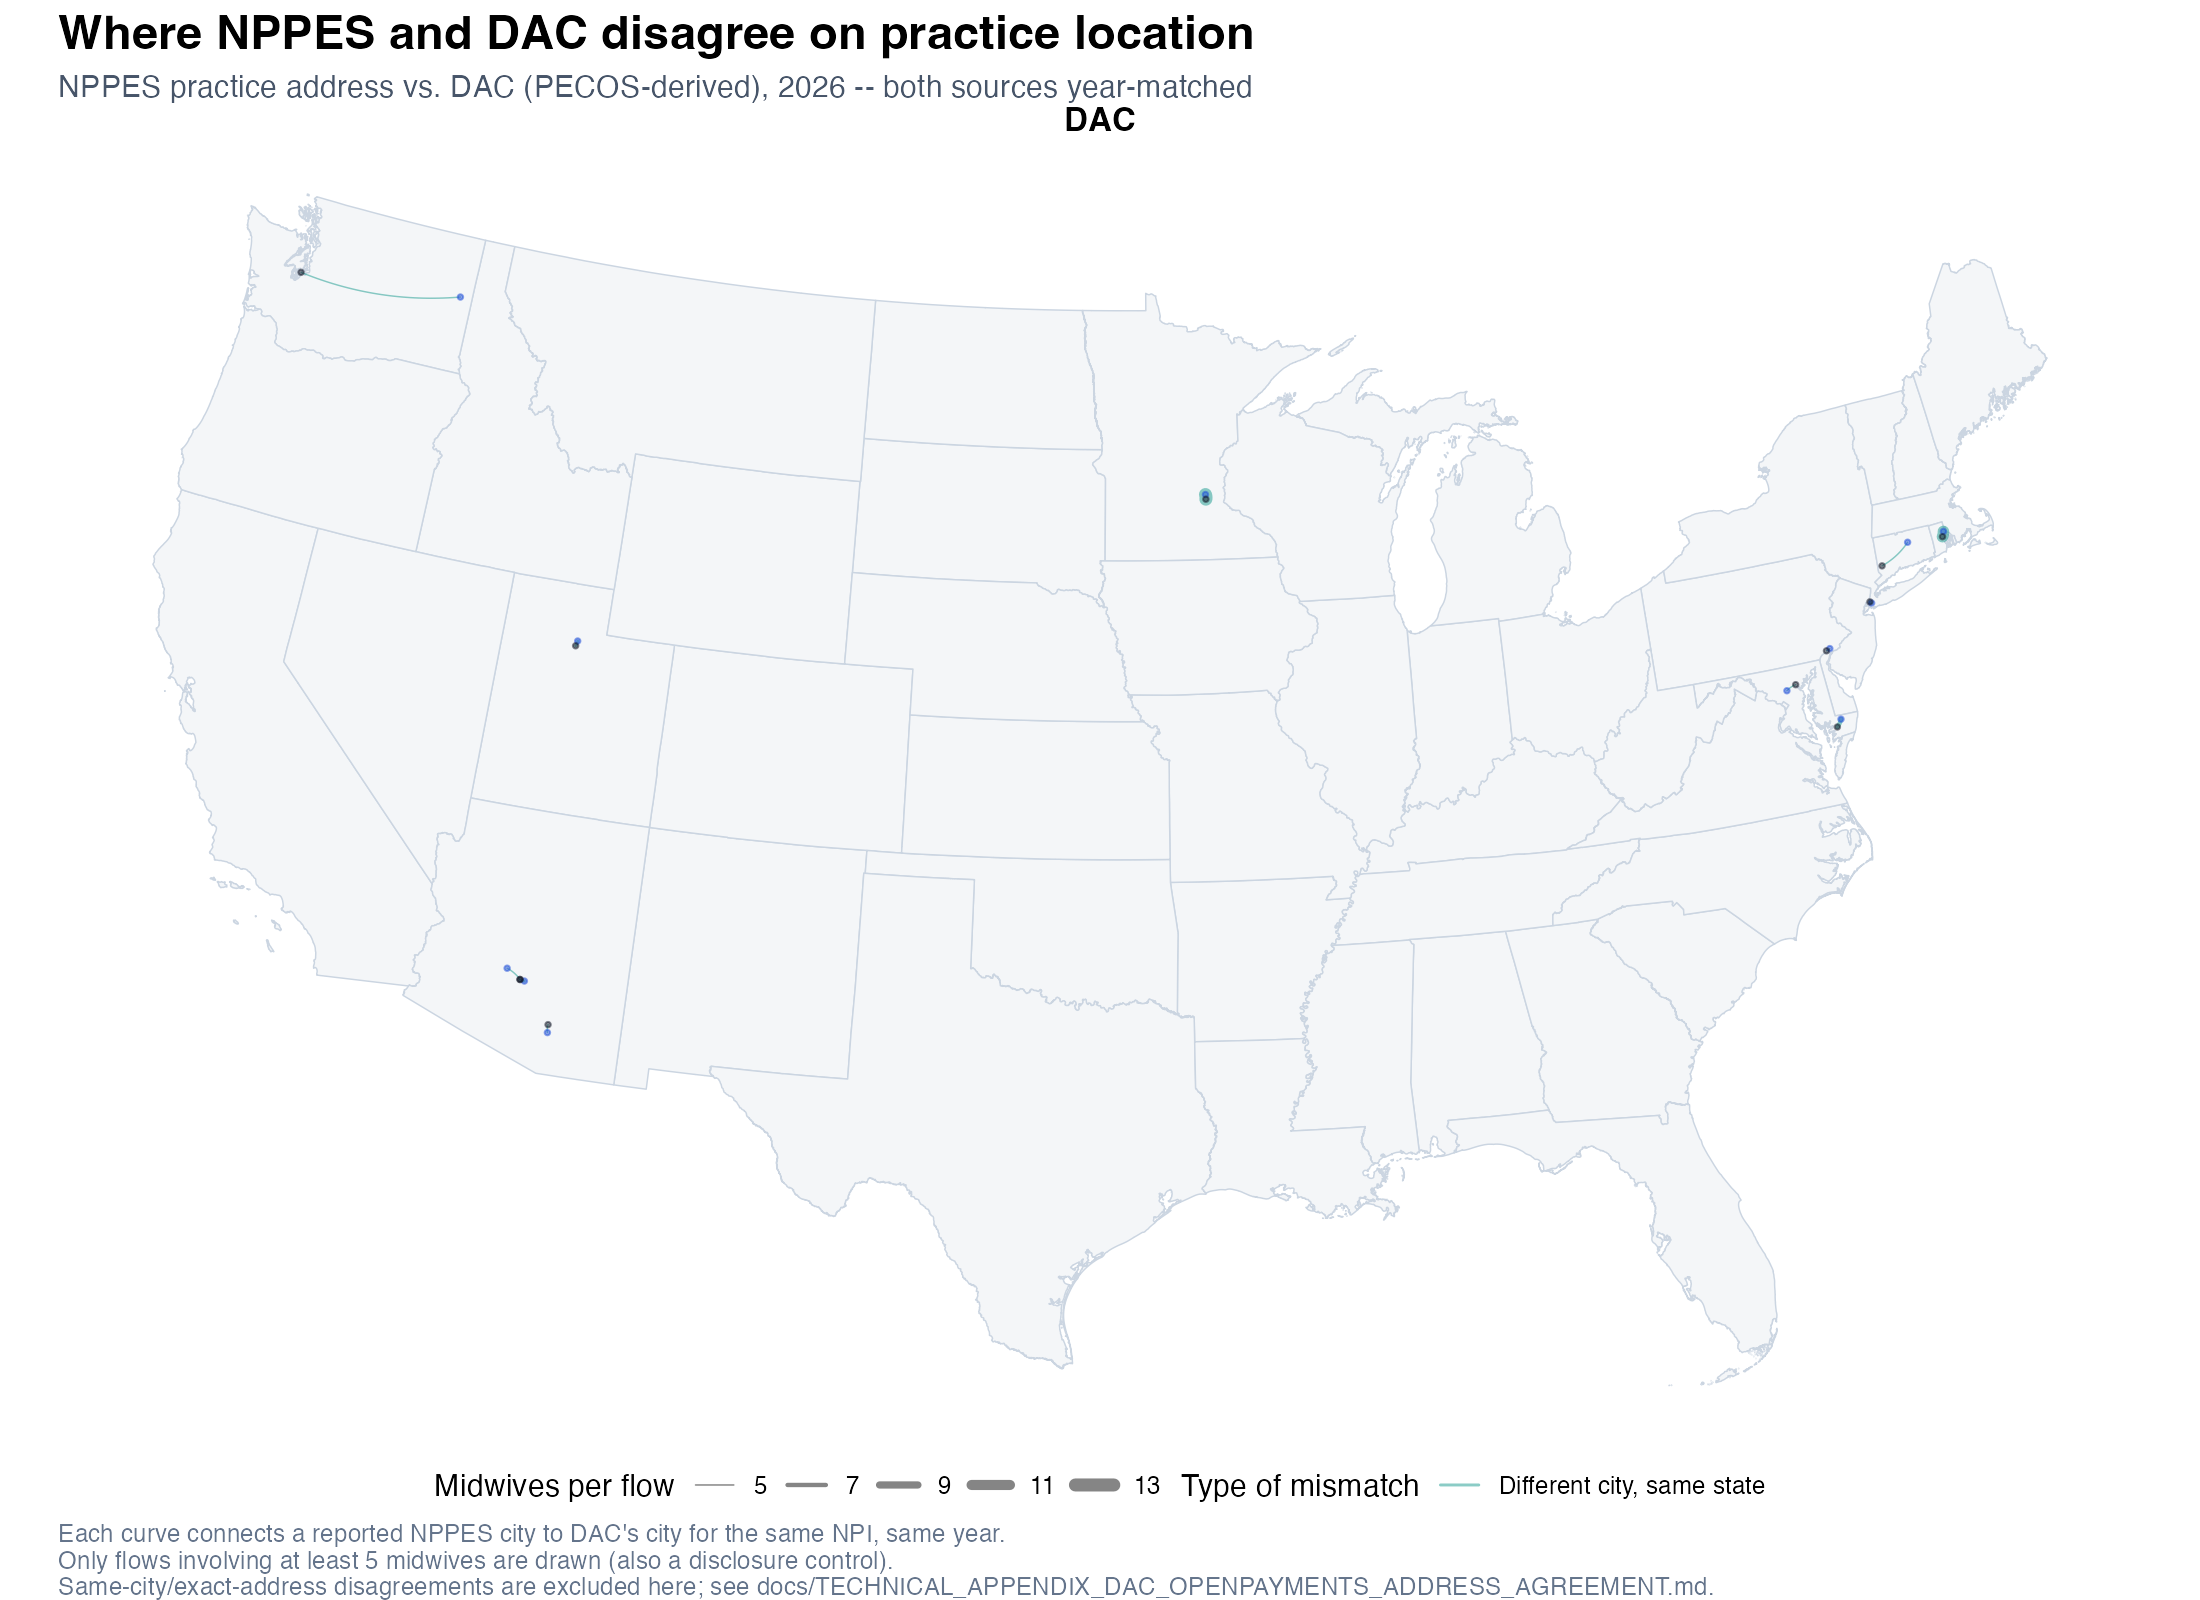
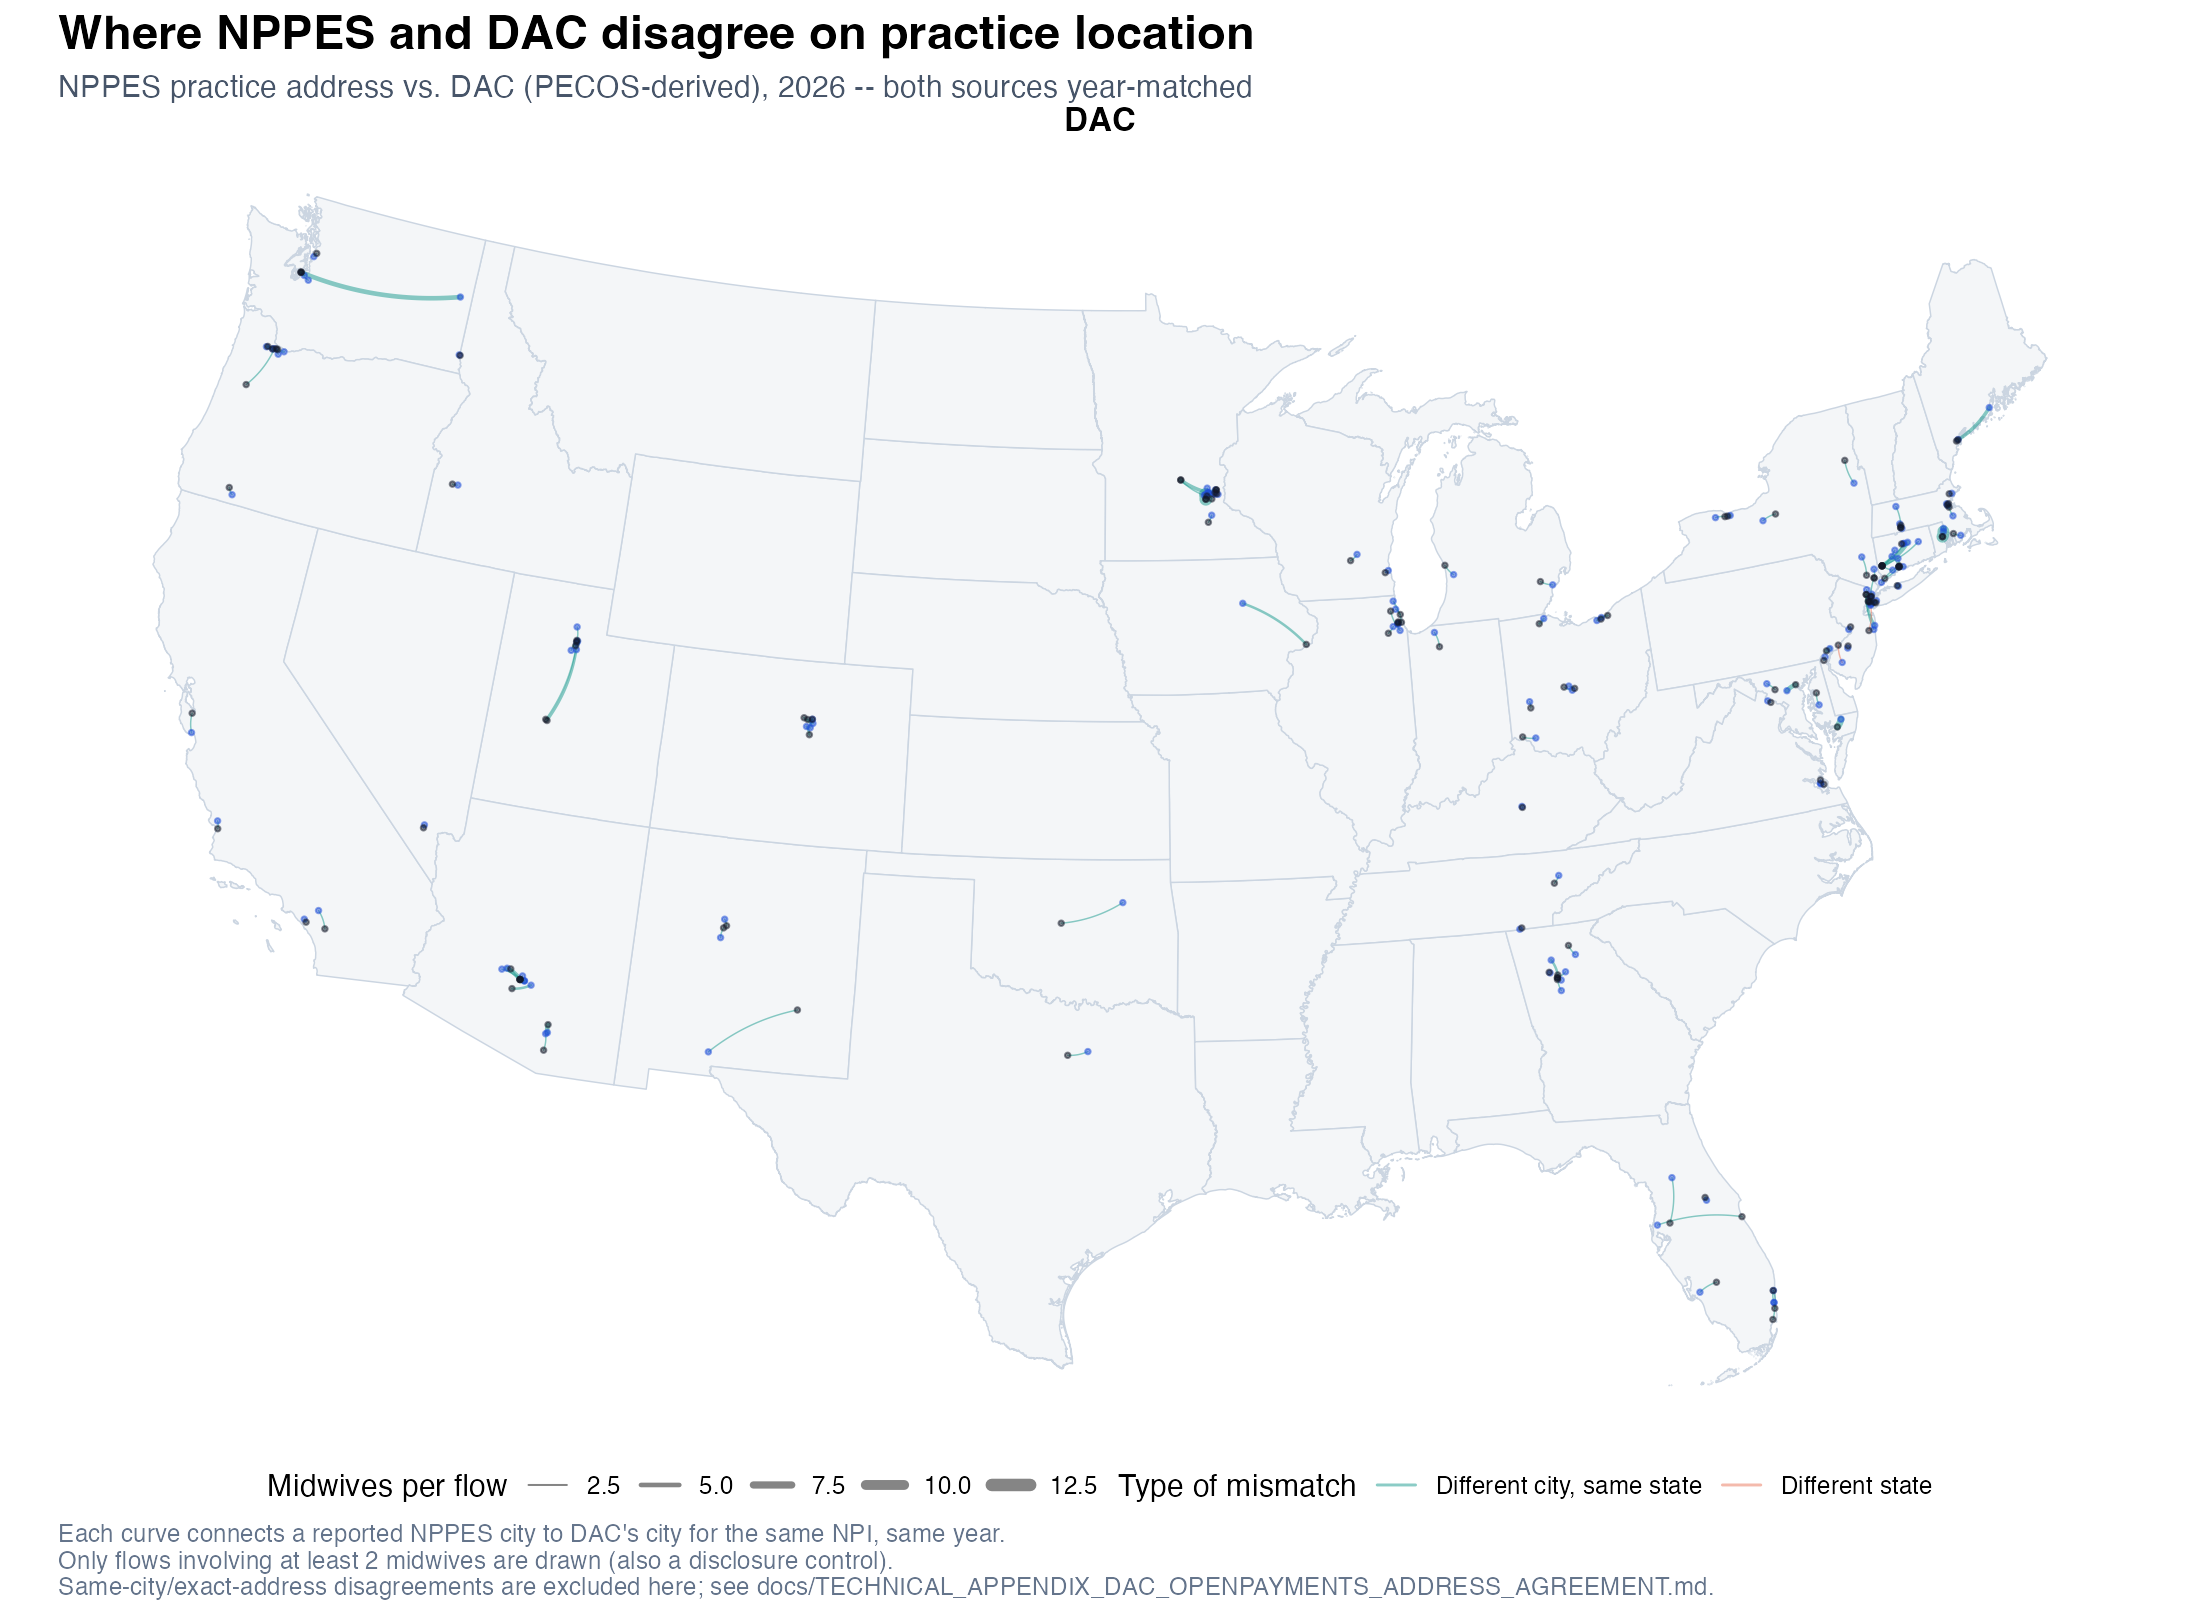
Lower the national flow map's disclosure threshold to n>=2
At n>=5, only 12 of 1,418 distinct city-pairs repeated often enough
to draw -- the map looked nearly empty and understated how much
DAC/NPPES disagreement actually exists. Lowered to n>=2, matching
the Colorado view's threshold: 138 flows now draw (367 midwives),
covering every state with a recurring disagreement instead of a
dozen scattered points.

This is a real privacy tradeoff, made deliberately: n=2 is a weaker
disclosure bar than n=5 (it still never draws a single midwife's own
two addresses, but two midwives sharing an unusual city pair in a
sparse area could be more identifiable than a flow of 5+). Documented
as such in the appendix rather than silently lowering the bar.

Also corrected an unverified claim from the previous commit's
appendix prose (checked against the actual tracked flow table before
leaving it in, per this repo's house rule): there is no
Oklahoma->Texas cross-state flow. The real 4 different-state flows
that clear the threshold are all short cross-border/twin-city hops
(Clarkston WA/Lewiston ID, Elmer NJ/Philadelphia PA, Brooklyn/Lakewood
NJ, New York/Jersey City NJ), not long-distance relocations.

Claude-Session: https://claude.ai/code/session_01B86vSCLDD8XppKj5UFN1As

diff --git a/docs/TECHNICAL_APPENDIX_DAC_OPENPAYMENTS_ADDRESS_AGREEMENT.md b/docs/TECHNICAL_APPENDIX_DAC_OPENPAYMENTS_ADDRESS_AGREEMENT.md
@@ -306,13 +306,17 @@ both sides.
 Each curve connects a midwife's NPPES city to her DAC city for the same NPI
 the same year. Only city-level-or-greater disagreements are drawn (exact
 street-address mismatches within one city would be dense, overlapping, and
-not add signal); only flows shared by **5 or more midwives** are shown --
+not add signal); only flows shared by **2 or more midwives** are shown --
 a legibility threshold and a disclosure control together, since a flow of
-n=1 would name one specific midwife's two addresses on a public map. Of
+n=1 would name one specific midwife's two addresses on a public map. (An
+n≥5 national draft shown earlier was too sparse to be useful -- only 12 of
+1,418 distinct city-pairs repeat that often -- so the threshold was lowered
+to match the Colorado view's n≥2; a flow of exactly 2 is a weaker privacy
+bar than n≥5, a real tradeoff made deliberately here, not a default.) Of
 4,316 geocoded pairs, 1,647 disagree at city-level-or-coarser; those collapse
-into 1,418 distinct city-to-city flows, of which 12 clear the n≥5 threshold
-nationally (80 midwives) and 4 within Colorado (12 midwives, n≥2 threshold
-for that exploratory view).
+into 1,418 distinct city-to-city flows, of which 138 clear the n≥2 threshold
+nationally (367 midwives -- 134 different-city/same-state, 4 different-state)
+and 4 within Colorado (12 midwives, same n≥2 threshold).
 
 ![Colorado-focused view](figures/dac_vs_nppes_address_flows_colorado_2026.png)
 
@@ -342,16 +346,21 @@ footnote: the true gap between DAC and NPPES on city-level agreement is
 probably smaller than 55.6% suggests, by something in the neighborhood of
 a few percentage points, not by a few tenths of one.
 
-**What the map does and doesn't show.** It is legible but sparse by
-design -- 12 flows nationally, most of them visually short because most
-*recurring* (n≥5) city-level disagreements turn out to be nearby-suburb
-mix-ups (Gilbert/Chandler AZ; St. Louis Park/Bloomington MN;
-Providence/Warwick RI) rather than long-distance relocations. The one
-clear exception is Spokane → Gig Harbor, WA, visibly curved at the
-state's full width. This map cannot speak to the much larger number of
-one-off, idiosyncratic disagreements below the n≥5 threshold -- those are
-the majority of the 1,418 distinct flows and are exactly what min_flow_n
-exists to keep off a public map.
+**What the map does and doesn't show.** At n≥2 it is legible and covers
+every state with a recurring disagreement, not just a dozen. Most flows are
+still visually short -- recurring disagreements remain mostly nearby-suburb
+mix-ups (Gilbert/Chandler AZ; St. Louis Park/Bloomington MN, the largest
+single flow at 13 midwives; Providence/Warwick RI) rather than long-distance
+relocations, and all 4 of the different-*state* flows that clear n≥2 are
+short cross-border hops too (Clarkston WA/Lewiston ID are twin cities split
+by a river; Elmer NJ/Philadelphia PA, Brooklyn NY/Lakewood NJ, and New York
+NY/Jersey City NJ are all commuting-distance metro-area pairs) -- not the kind
+of long-distance relocation Spokane → Gig Harbor, WA (a same-state flow,
+visibly curved at the state's full width) represents. This map still
+cannot speak to the roughly 1,280 one-off, idiosyncratic disagreements
+shared by exactly one midwife -- those remain below even the n≥2 threshold
+and are exactly what min_flow_n exists
+to keep off a public map.
 
 ```sh
 # Requires the two inputs compare_dac_openpayments_to_nppes_address.R
